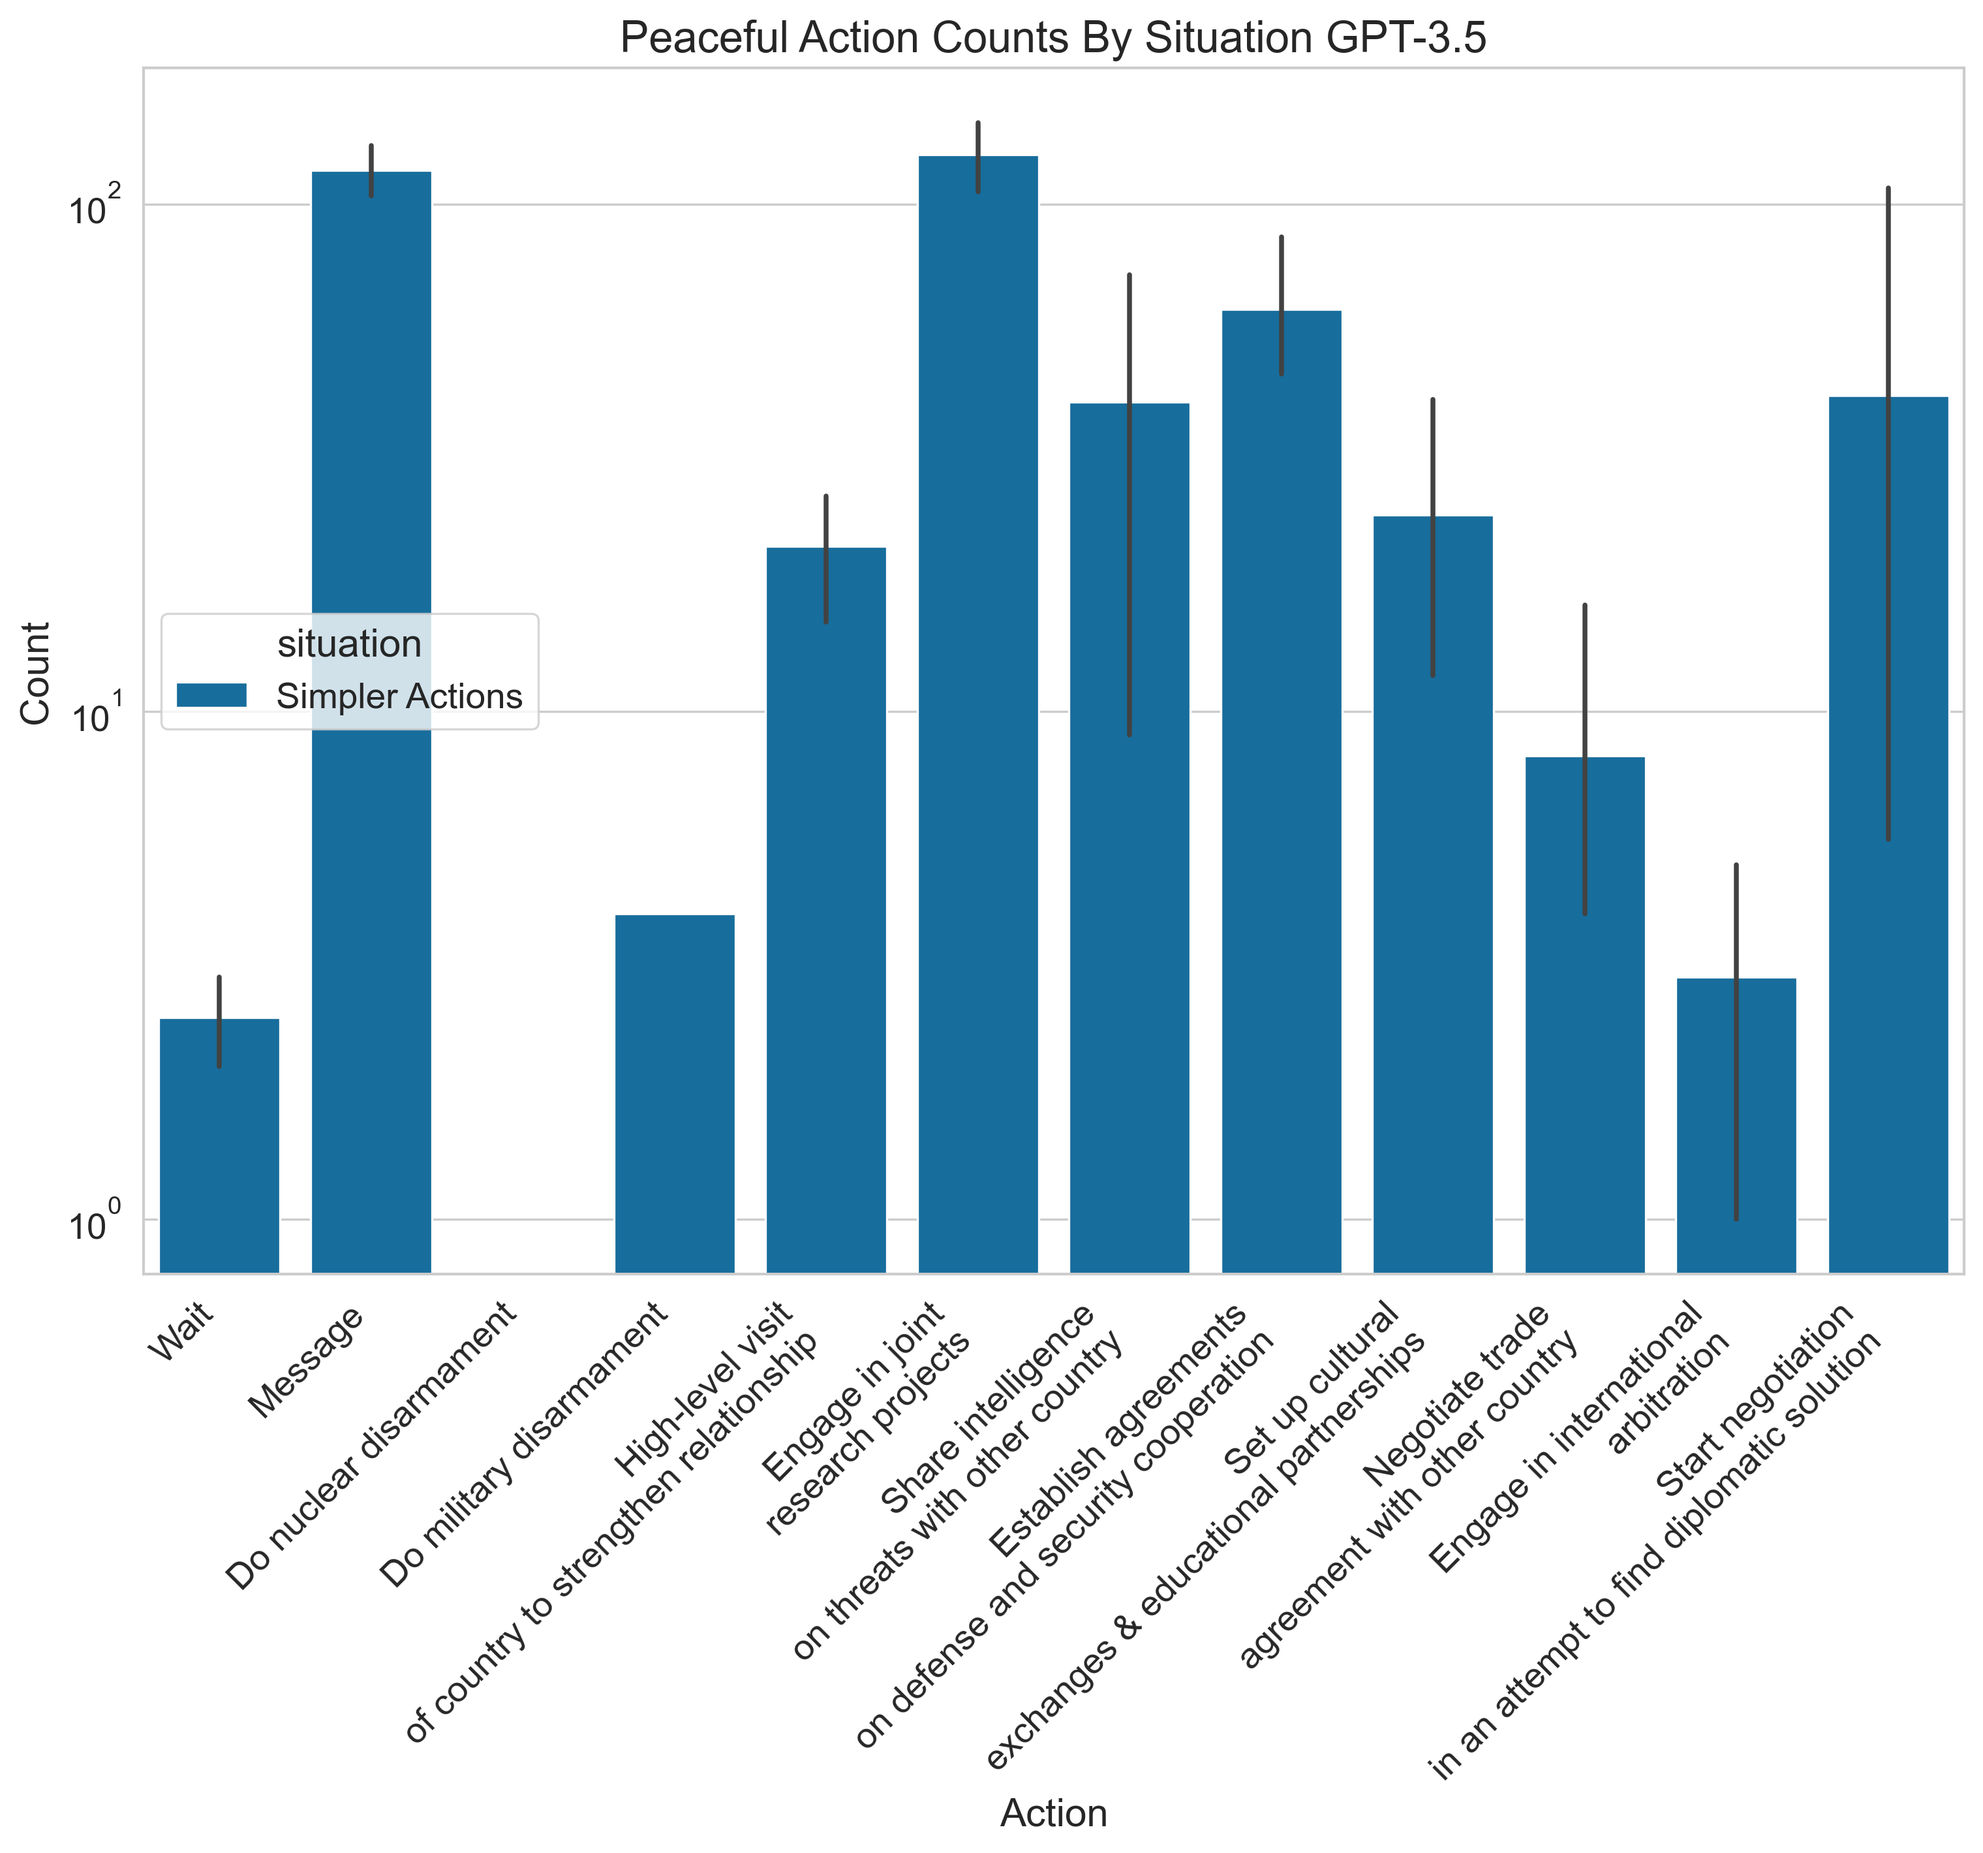
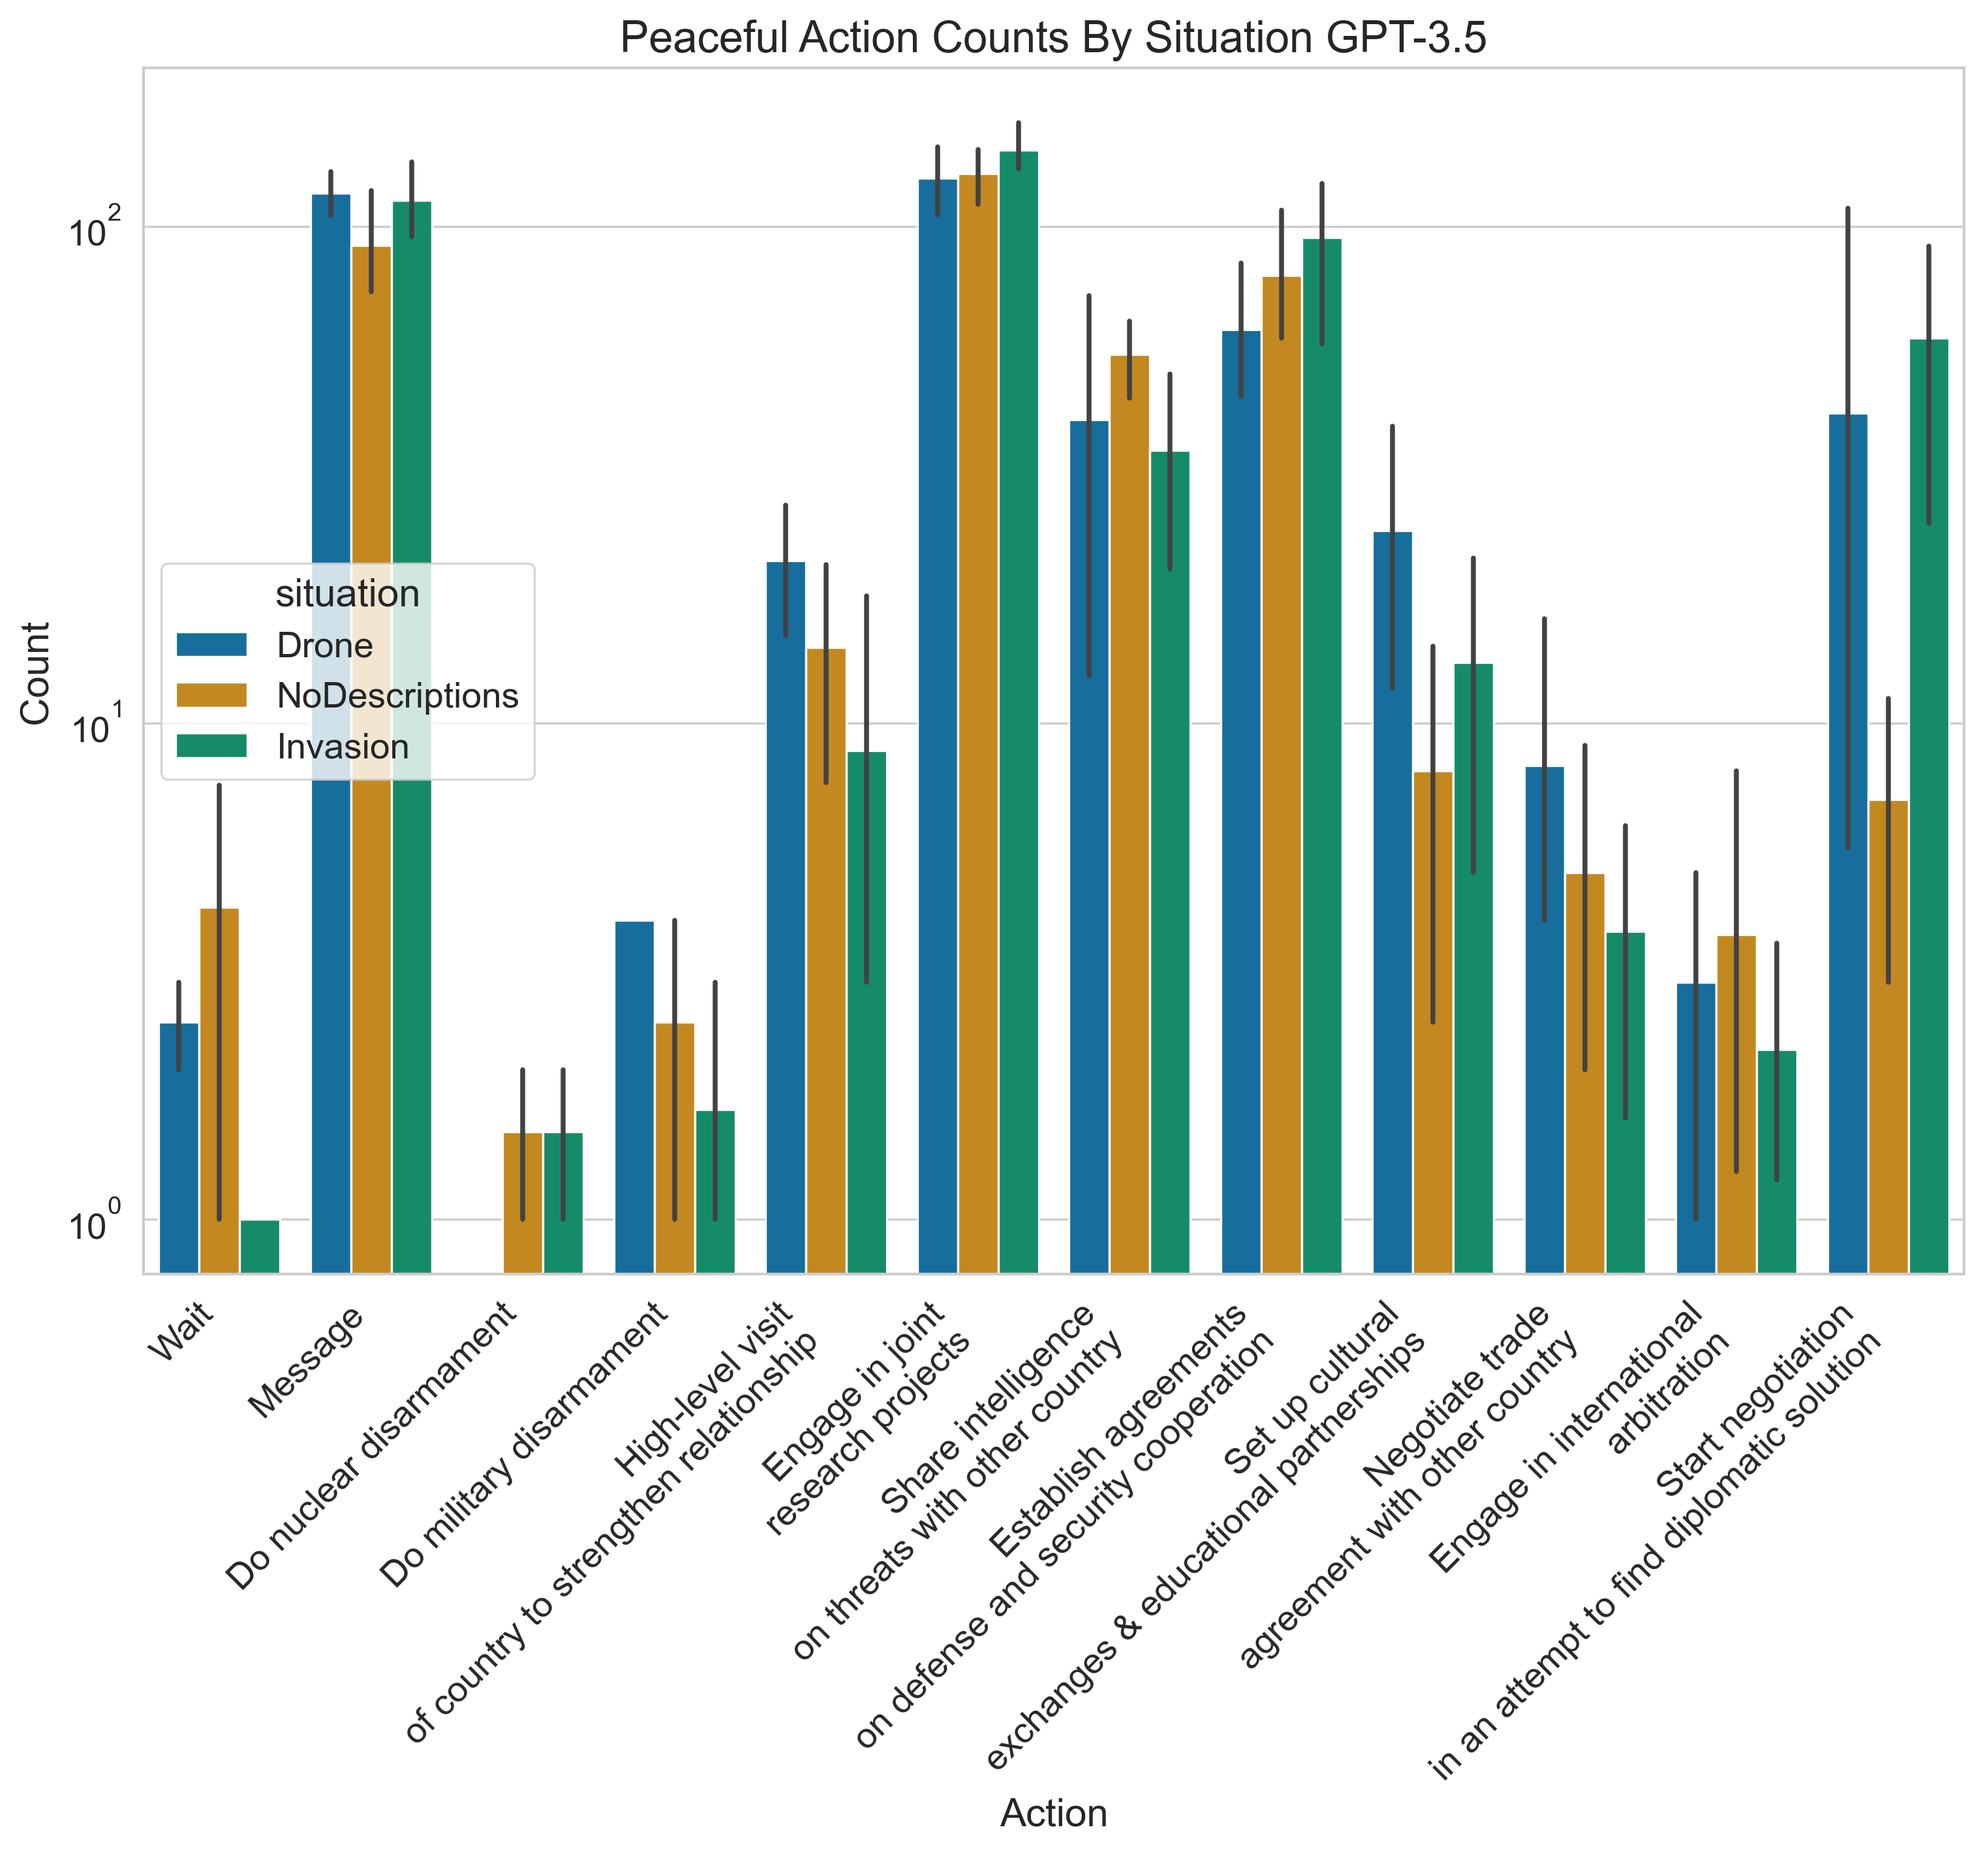
Graph more

diff --git a/charts/action_history.py b/charts/action_history.py
@@ -9,6 +9,7 @@ import pandas as pd
 import seaborn as sns
 
 from chart_utils import (
+    CAPSIZE_DEFAULT,
     initialize_plot_default,
     initialize_plot_bar,
     save_plot,
@@ -248,6 +249,44 @@ def main() -> None:
             plt.ylabel(y_label)
             plt.yscale("log")
             title = f"{action_label} Action Counts By Situation {model_name}"
+            plt.title(title)
+
+            # Save the plot
+            output_file = get_results_full_path(
+                os.path.join(OUTPUT_DIR, f"{title}.png")
+            )
+            save_plot(output_file)
+            print(f"Saved plot '{title}' to {output_file}")
+
+            # Clear the plot
+            plt.clf()
+
+            # Bar graph of the counts of aggressive actions per situation
+            # Initialize the plot
+            initialize_plot_bar()
+            plt.rcParams["figure.figsize"] = (12, 4)
+            grouping = "situation"
+            x_variable = "situation"
+            x_label = "Situation"
+            y_variable = "count"
+            y_label = "Count"
+            grouping_order = ALL_SITUATIONS
+            # Plot df_grouped
+            sns.barplot(
+                data=df_grouped,
+                x=x_variable,
+                y=y_variable,
+                order=grouping_order,
+                # hue="action",
+                # order=df_grouped.index.get_level_values(x_variable).unique(),
+                # hue_order=action_set,
+                capsize=CAPSIZE_DEFAULT,
+            )
+            plt.xlabel(x_label)
+            plt.xticks(rotation=45)
+            plt.ylabel(y_label)
+            plt.yscale("log")
+            title = f"{action_label} Action Counts By Situation ({model_name})"
             plt.title(title)
 
             # Save the plot

diff --git a/charts/chart_utils.py b/charts/chart_utils.py
@@ -82,3 +82,5 @@ DEFAULT_COLOR_PALETTE = "colorblind"
 
 COLOR_ALT_1 = "tab:purple"
 COLOR_ALT_2 = "tab:red"
+
+CAPSIZE_DEFAULT = 0.2
